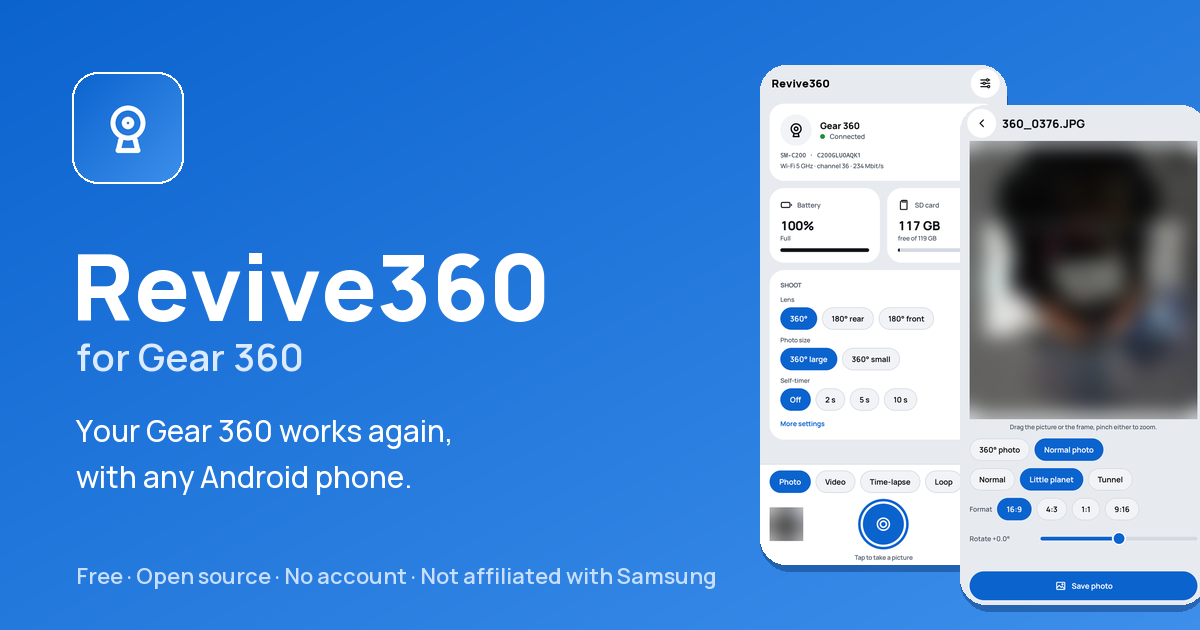
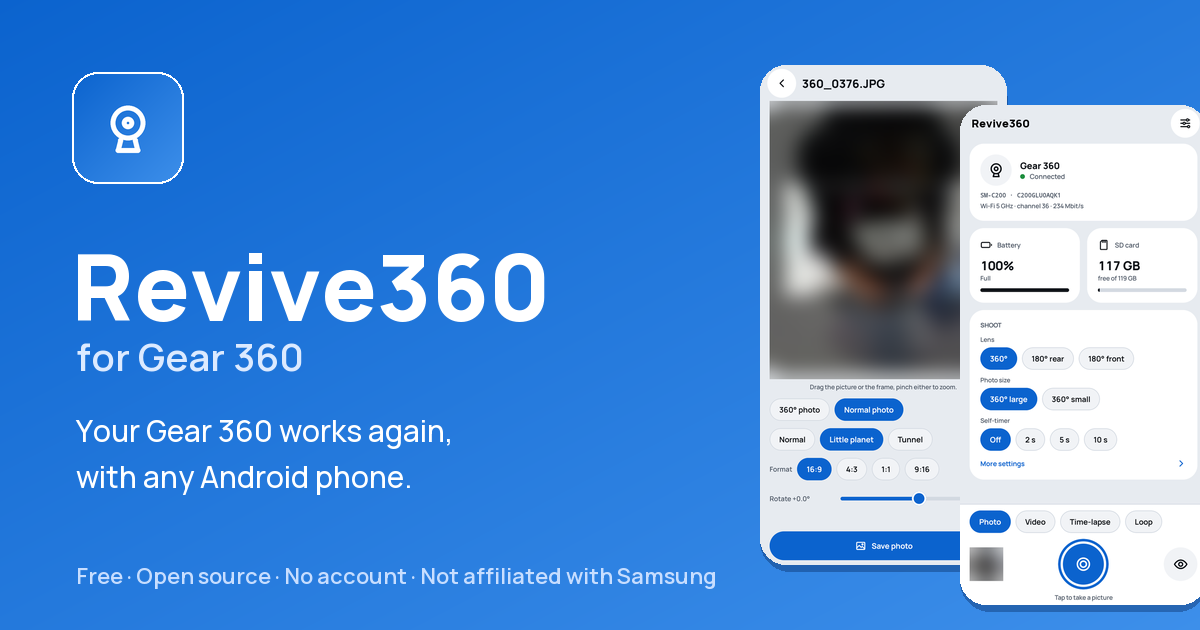
Social preview: the home screen in front, the 360 viewer behind

Changed region(s): [[0.6167, 0.1206, 1.0, 0.9651], [0.925, 0.7841, 0.9558, 0.8143]]

diff --git a/site/tools/make_assets.py b/site/tools/make_assets.py
@@ -81,7 +81,7 @@ def og_card(path, title, subtitle, lines, badge):
         size -= 1
     draw.text((76, 560), badge, font=font(size, 600), fill=(200, 222, 255))
     # Two screenshots on the right, in rounded phone frames
-    for i, name in enumerate(("home", "viewer360")):
+    for i, name in enumerate(("viewer360", "home")):
         shot = Image.open(SHOTS / f"{name}.png").convert("RGB")
         sh = 500
         sw = round(shot.width * sh / shot.height)
